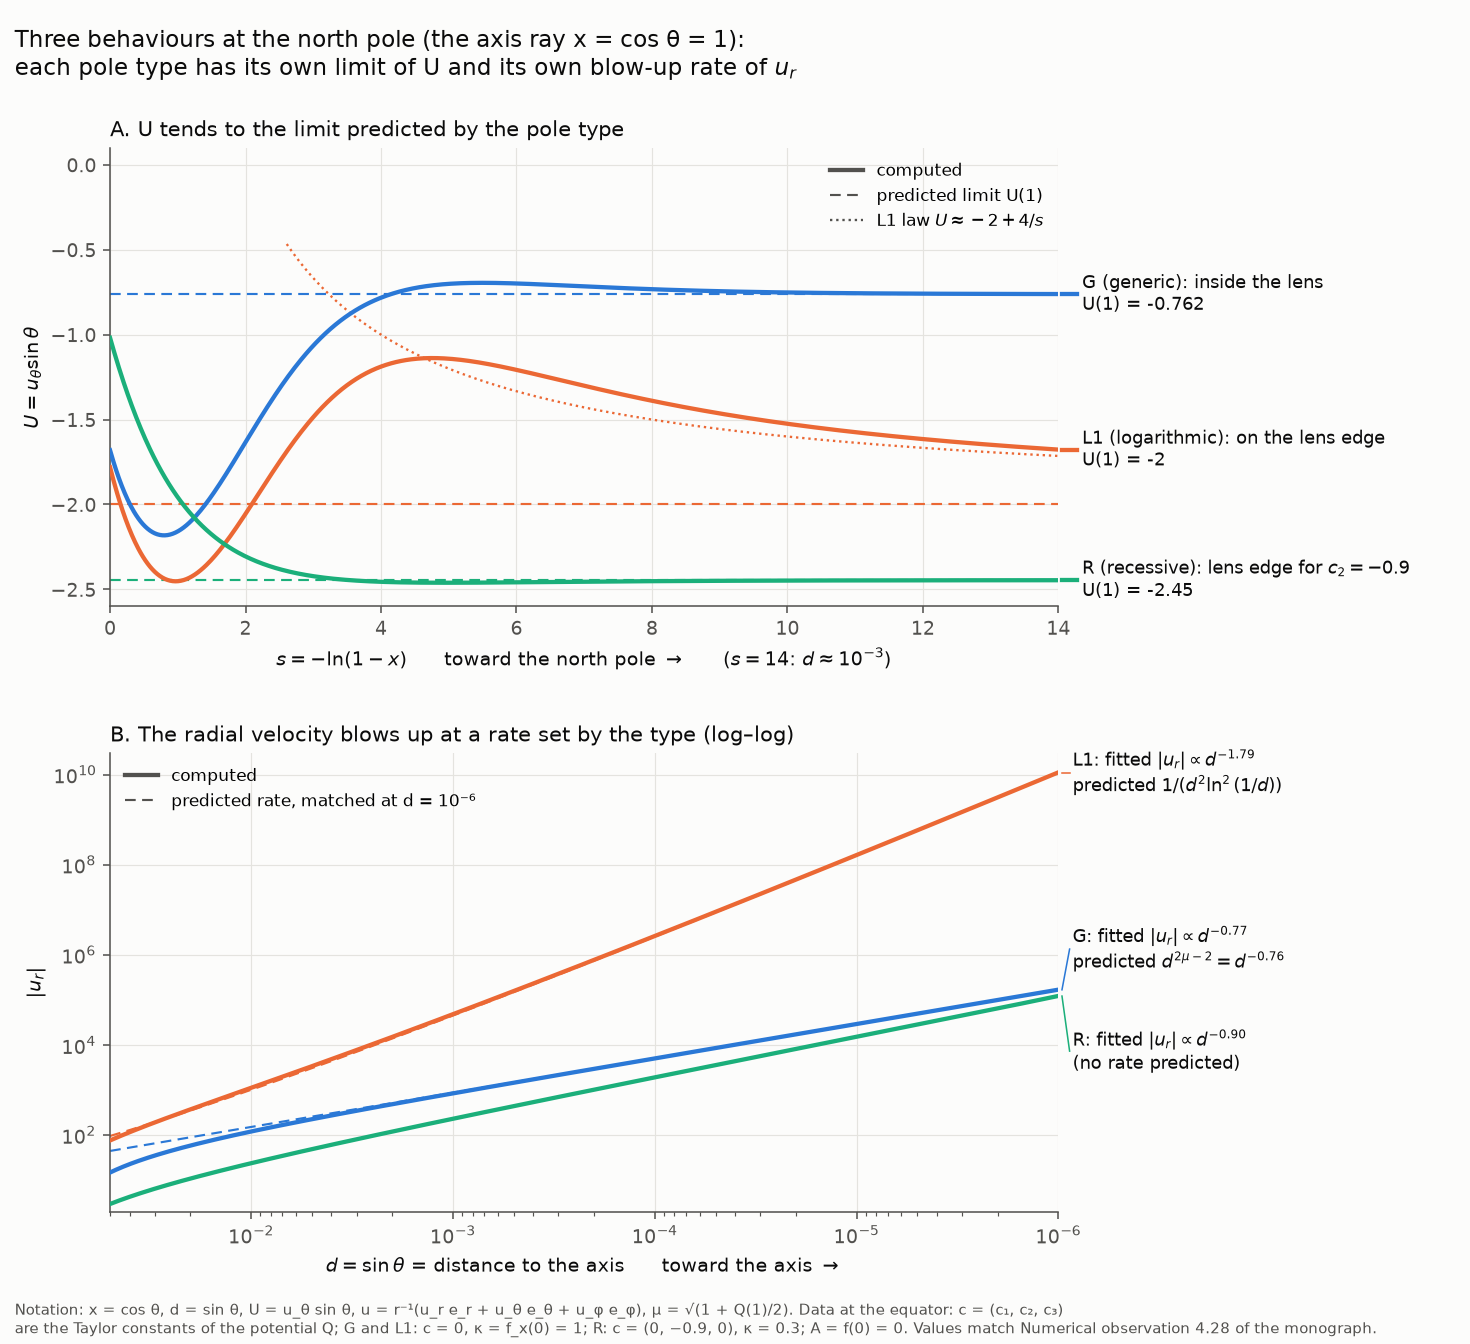
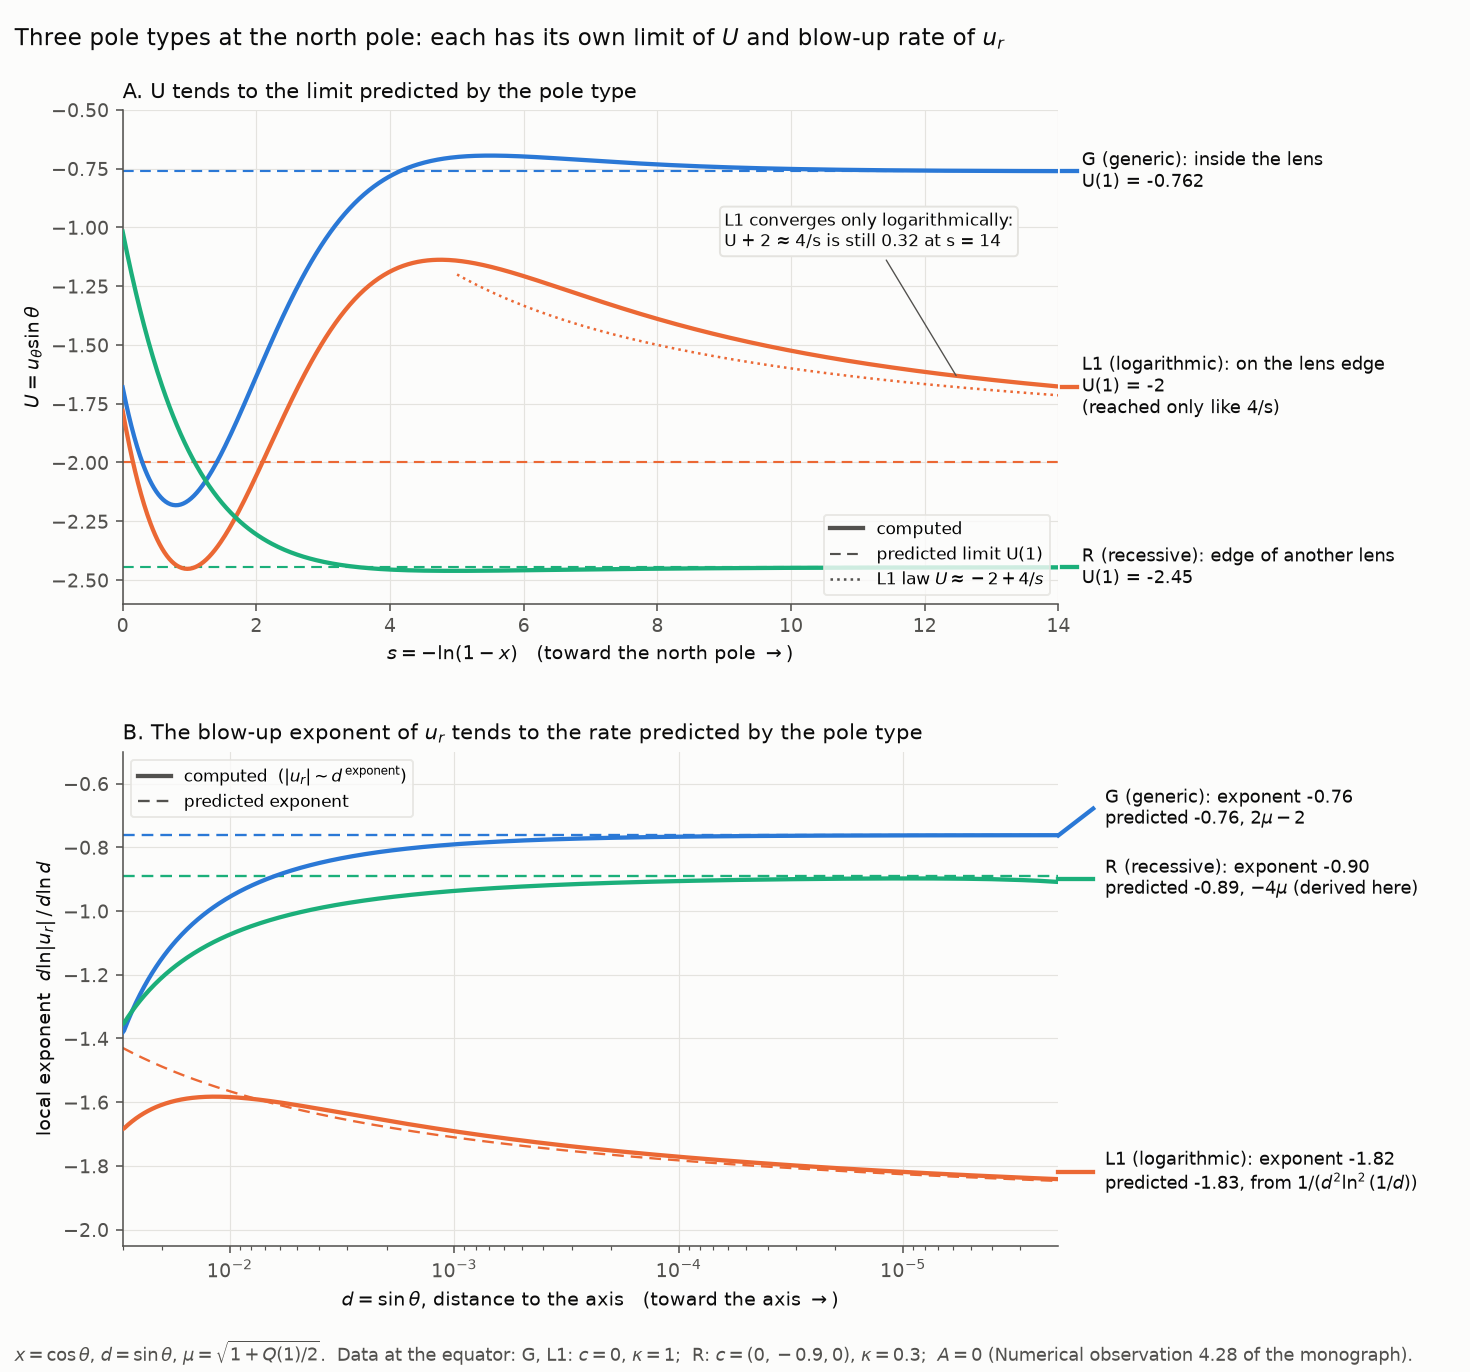
Milestone-1 figures after 6 review rounds; local-exponent panel; mock-up refresh

diff --git a/scripts/make_m1_figures.py b/scripts/make_m1_figures.py
@@ -48,13 +48,13 @@ def _runs():
     return [
         ("G", "G (generic): inside the lens", Params(gamma=gm0 + 0.1, kappa=1.0), S1),
         ("L1", "L1 (logarithmic): on the lens edge", Params(gamma=gm0 + 1e-11, kappa=1.0), S2),
-        ("R", r"R (recessive): lens edge for $c_2=-0.9$", Params(c2=-0.9, gamma=gm9 + 1e-11, kappa=0.3), S3),
+        ("R", "R (recessive): edge of another lens", Params(c2=-0.9, gamma=gm9 + 1e-11, kappa=0.3), S3),
     ]
 
 
 def fig_pole_types() -> str:
     runs = _runs()
-    fig, (ax, bx) = plt.subplots(2, 1, figsize=(10.5, 9.6))
+    fig, (ax, bx) = plt.subplots(2, 1, figsize=(10.5, 9.8))
     # ---------------------------------------------------------------- panel A
     for strat, name, p, col in runs:
         sol = solve(p)
@@ -64,22 +64,29 @@ def fig_pole_types() -> str:
         ax.plot(pr["s_north"], pr["U"], color=col, lw=2.2, zorder=3)
         ax.axhline(d.U_lim, color=col, lw=1.1, ls=(0, (5, 3)), zorder=2)
         if strat == "L1":
-            s = pr["s_north"][pr["s_north"] > 2.6]
-            ax.plot(s, -2 + 4 / s, color=col, lw=1.2, ls=":")
+            s = pr["s_north"][pr["s_north"] > 5.0]
+            ax.plot(s, -2 + 4 / s, color=col, lw=1.3, ls=":")
+            ax.annotate("L1 converges only logarithmically:\nU + 2 ≈ 4/s is still 0.32 at s = 14",
+                        xy=(12.5, -1.645), xytext=(9.0, -1.08), fontsize=8.8, color=INK,
+                        bbox=dict(boxstyle="round,pad=0.25", fc=SURF, ec=GRID),
+                        arrowprops=dict(arrowstyle="-", color=INK2, lw=0.7))
         y = pr["U"][-1]
-        ax.text(14.35, y, f"{name}\nU(1) = {d.U_lim:.3g}", fontsize=9, va="center", color=INK)
+        extra = "\n(reached only like 4/s)" if strat == "L1" else ""
+        ax.text(14.35, y, f"{name}\nU(1) = {d.U_lim:.3g}{extra}", fontsize=9, va="center", color=INK)
         ax.plot([14.05, 14.28], [y, y], color=col, lw=2.2, clip_on=False)
     ax.set_xlim(0, 14)
-    ax.set_ylim(-2.6, 0.1)
-    ax.set_xlabel(r"$s = -\ln(1-x)$      toward the north pole $\rightarrow$      ($s = 14$: $d \approx 10^{-3}$)")
+    ax.set_ylim(-2.6, -0.5)
+    ax.set_xlabel(r"$s = -\ln(1-x)$   (toward the north pole $\rightarrow$)")
     ax.set_ylabel(r"$U = u_\theta \sin\theta$")
     ax.set_title("A. U tends to the limit predicted by the pole type", loc="left", fontsize=11, color=INK)
     style = [Line2D([], [], color=INK2, lw=2.2, label="computed"),
              Line2D([], [], color=INK2, lw=1.1, ls=(0, (5, 3)), label="predicted limit U(1)"),
-             Line2D([], [], color=INK2, lw=1.2, ls=":", label=r"L1 law $U \approx -2 + 4/s$")]
-    ax.legend(handles=style, loc="upper right", fontsize=8.5)
-    # ---------------------------------------------------------------- panel B
-    xi2 = np.linspace(np.log(2 / 0.05), 14.5, 500)        # d from 0.05 to 1e-6 (edge runs drift later)
+             Line2D([], [], color=INK2, lw=1.3, ls=":", label=r"L1 law $U \approx -2 + 4/s$")]
+    ax.legend(handles=style, loc="lower right", fontsize=8.5, frameon=True, facecolor=SURF, edgecolor=GRID)
+    # ---------------------------------------------------------------- panel B: local exponent
+    xi2 = np.linspace(np.log(2 / 0.03), 13.8, 700)        # d from 0.05 to 1e-6 (edge runs drift later)
+    d_end = 1.0 / np.cosh(13.8)                              # = sin(theta) at the last sample
+    label_y = {"G": None, "L1": None, "R": None}
     for strat, name, p, col in runs:
         sol = solve(p)
         dfull = diagnose_pole(sol, "north")
@@ -87,111 +94,161 @@ def fig_pole_types() -> str:
         good = np.abs(p2["U_x"] * p2["sin"] ** 2) > 1e-9      # drop rounding noise
         d = p2["sin"][good]
         ur = np.abs(p2["u_r"][good])
-        fit, _ = fit_exponent(d[d < 1e-3], ur[d < 1e-3])
+        slope = np.gradient(np.log(ur), np.log(d))            # local exponent of |u_r| ~ d^slope
         if strat == "G":
-            ref = d ** (2 * dfull.mu - 2)
-            lab = (rf"G: fitted $|u_r| \propto d^{{{fit:.2f}}}$" + "\n"
-                   + rf"predicted $d^{{2\mu-2}} = d^{{{2 * dfull.mu - 2:.2f}}}$")
+            pred = np.full_like(d, 2 * dfull.mu - 2)
+            how = r"$2\mu-2$"
         elif strat == "L1":
-            ref = 1 / (d ** 2 * np.log(1 / d) ** 2)
-            lab = (rf"L1: fitted $|u_r| \propto d^{{{fit:.2f}}}$" + "\n"
-                   + r"predicted $1/(d^2 \ln^2(1/d))$")
+            pred = -2 + 2 / np.log(1 / d)                      # local exponent of 1/(d^2 ln^2(1/d))
+            how = r"from $1/(d^2\ln^2(1/d))$"
         else:
-            ref = None
-            lab = rf"R: fitted $|u_r| \propto d^{{{fit:.2f}}}$" + "\n(no rate predicted)"
-        if ref is not None:
-            bx.loglog(d, ref * ur[-1] / ref[-1], color=col, lw=1.1, ls=(0, (5, 3)), zorder=2)
-        bx.loglog(d, ur, color=col, lw=2.2, zorder=3)
-        yl = ur[-1] * (0.06 if strat == "R" else (8.0 if strat == "G" else 1.0))
-        bx.text(8.5e-7, yl, lab, fontsize=9, va="center", ha="left", color=INK)
-        bx.plot([9.6e-7, 8.8e-7], [ur[-1], yl], color=col, lw=0.8, clip_on=False)
-    bx.set_xlim(0.05, 1e-6)                                  # pole on the right, as in panel A
-    bx.set_ylim(2, 3e10)
-    bx.set_xlabel(r"$d = \sin\theta$ = distance to the axis      toward the axis $\rightarrow$")
-    bx.set_ylabel(r"$|u_r|$")
-    bx.set_title("B. The radial velocity blows up at a rate set by the type (log–log)", loc="left",
-                 fontsize=11, color=INK)
-    style2 = [Line2D([], [], color=INK2, lw=2.2, label="computed"),
-              Line2D([], [], color=INK2, lw=1.1, ls=(0, (5, 3)), label="predicted rate, matched at d = 10⁻⁶")]
-    bx.legend(handles=style2, loc="upper left", fontsize=8.5)
-    fig.suptitle("Three behaviours at the north pole (the axis ray x = cos θ = 1):\n"
-                 "each pole type has its own limit of U and its own blow-up rate of $u_r$",
+            pred = np.full_like(d, -4 * dfull.mu)
+            how = r"$-4\mu$ (derived here)"
+        bx.semilogx(d, pred, color=col, lw=1.2, ls=(0, (5, 3)), zorder=2)
+        bx.semilogx(d, slope, color=col, lw=2.2, zorder=3)
+        plateau = (d > 3e-6) & (d < 3e-5)
+        y = float(np.median(slope[plateau]))
+        label_y[strat] = (y, f"{name.split(':')[0]}: exponent {y:.2f}\npredicted {np.median(pred[plateau]):.2f}, {how}", col)
+    # right-end labels, nudged apart vertically if they collide
+    items = sorted(label_y.values(), key=lambda t: t[0])
+    ys = [t[0] for t in items]
+    for i in range(1, len(ys)):
+        ys[i] = max(ys[i], ys[i - 1] + 0.22)
+    for (y0, txt, col), yt in zip(items, ys):
+        bx.text(d_end * 0.62, yt, txt, fontsize=9, va="center", ha="left", color=INK)
+        bx.plot([d_end, d_end * 0.7], [y0, yt], color=col, lw=2.2, clip_on=False)
+    bx.set_xlim(0.03, d_end)                                 # pole on the right, as in panel A
+    bx.set_ylim(-2.05, -0.5)
+    bx.set_xlabel(r"$d = \sin\theta$, distance to the axis   (toward the axis $\rightarrow$)")
+    bx.set_ylabel(r"local exponent $\;d\ln|u_r|\,/\,d\ln d$")
+    bx.set_title(r"B. The blow-up exponent of $u_r$ tends to the rate predicted by the pole type",
+                 loc="left", fontsize=11, color=INK)
+    style2 = [Line2D([], [], color=INK2, lw=2.2, label=r"computed  ($|u_r| \sim d^{\,\mathrm{exponent}}$)"),
+              Line2D([], [], color=INK2, lw=1.2, ls=(0, (5, 3)), label="predicted exponent")]
+    bx.legend(handles=style2, loc="upper left", fontsize=8.5, frameon=True, facecolor=SURF, edgecolor=GRID)
+    fig.suptitle("Three pole types at the north pole: each has its own limit of $U$ and blow-up rate of $u_r$",
                  x=0.01, ha="left", fontsize=12, color=INK)
     fig.text(0.01, 0.008,
-             "Notation: x = cos θ, d = sin θ, U = u_θ sin θ, u = r⁻¹(u_r e_r + u_θ e_θ + u_φ e_φ), μ = √(1 + Q(1)/2). "
-             "Data at the equator: c = (c₁, c₂, c₃)\nare the Taylor constants of the potential Q; "
-             "G and L1: c = 0, κ = f_x(0) = 1; R: c = (0, −0.9, 0), κ = 0.3; A = f(0) = 0. "
-             "Values match Numerical observation 4.28 of the monograph.", fontsize=7.8, color=INK2)
-    fig.tight_layout(rect=(0, 0.035, 1, 0.95))
-    fig.subplots_adjust(hspace=0.32, right=0.72, top=0.89)
+             r"$x=\cos\theta$, $d=\sin\theta$, $\mu=\sqrt{1+Q(1)/2}$.  Data at the equator: "
+             r"G, L1: $c=0$, $\kappa=1$;  R: $c=(0,-0.9,0)$, $\kappa=0.3$;  $A=0$ "
+             "(Numerical observation 4.28 of the monograph).", fontsize=9, color=INK2)
+    fig.tight_layout(rect=(0, 0.03, 1, 0.96))
+    fig.subplots_adjust(hspace=0.3, right=0.72, top=0.92)
     path = os.path.join(OUT, "fig_pole_types.png")
     fig.savefig(path, dpi=140)
     plt.close(fig)
     return path
 
 
-def fig_lens_map() -> str:
-    spec = SigmaMapSpec(Params(), "gamma", "kappa", (-2.5, 2.5), (0.0, 4.6), nx=251, ny=185)
-    res = compute_sigma_map(spec, workers=os.cpu_count() or 4)
-    xs, ys = spec.axes()
-    G = res.is_global
-    mu = np.where(G, res.mu_n, np.nan)
-    ks = np.concatenate([np.linspace(0.005, 4.0, 50), np.linspace(4.0, 4.1607, 12)])
-    gm = np.array([gamma_minus(Params(kappa=k), tol=1e-8) for k in ks])
-    gp = -gm                                   # mirror symmetry at x0 = 0, c = 0
-    fig, ax = plt.subplots(figsize=(10.5, 6.6))
-    ax.grid(False)
-    ax.pcolormesh(xs, ys, np.where(G, np.nan, 1.0), cmap=ListedColormap(["#e6e5e1"]),
-                  shading="nearest", rasterized=True)
+def _nearest_fill(a: np.ndarray) -> np.ndarray:
+    from scipy.ndimage import distance_transform_edt
+    idx = distance_transform_edt(np.isnan(a), return_distances=False, return_indices=True)
+    return a[tuple(idx)]
+
+
+def _shade_lens(ax, xs, ys, mu, gm, ks, cols, smooth=1.0, kmin=0.0):
+    """Shade classes, draw smooth class boundaries clipped to the bisected lens."""
+    from scipy.ndimage import gaussian_filter
+    from matplotlib.patches import Polygon
     bounds = [0, 0.5, 2 / 3, 1.0]
-    cols = ["#163f73", "#2a78d6", "#a9cbf2"]             # one hue: darker = more singular (smaller μ₊)
     cmap = ListedColormap(cols)
+    ax.pcolormesh(xs, ys, np.where(np.isnan(mu), 1.0, np.nan), cmap=ListedColormap(["#e6e5e1"]),
+                  shading="nearest", rasterized=True)
     ax.pcolormesh(xs, ys, mu, cmap=cmap, norm=BoundaryNorm(bounds, cmap.N), shading="nearest",
                   rasterized=True)
-    cs = ax.contour(xs, ys, mu, levels=[0.5, 2 / 3], colors=["white"], linewidths=1.0)
+    sm = gaussian_filter(_nearest_fill(mu), smooth)
+    sm[ys < kmin, :] = np.nan                      # coarse grid cannot resolve the thin corner
+    cs = ax.contour(xs, ys, sm, levels=[0.5, 2 / 3], colors=["white"], linewidths=2.4)
+    poly = Polygon(np.column_stack([np.concatenate([gm, -gm[::-1]]), np.concatenate([ks, ks[::-1]])]),
+                   closed=True, transform=ax.transData, fill=False, lw=0)
+    ax.add_patch(poly)
+    cs.set_clip_path(poly)
+    ax.plot(np.concatenate([gm, -gm[::-1]]), np.concatenate([ks, ks[::-1]]), color=INK, lw=2.0)
+    return cs
 
-    def on_contour(level_idx: int, kappa: float):
-        seg = max(cs.allsegs[level_idx], key=len)
-        j = int(np.argmin(np.abs(seg[:, 1] - kappa)))
-        return float(seg[j, 0]), float(seg[j, 1])
 
-    labels = ax.clabel(cs, fmt={0.5: "μ₊ = ½", 2 / 3: "μ₊ = ⅔"}, fontsize=9.5, inline=True,
-                       manual=[on_contour(0, 2.2), on_contour(1, 2.2)])
-    for t in labels:
-        t.set_color(INK)
-        t.set_bbox(dict(boxstyle="round,pad=0.15", fc=SURF, ec="none"))
-    ax.plot(np.concatenate([gm, gp[::-1]]), np.concatenate([ks, ks[::-1]]), color=INK, lw=1.6)
+def _inline_label(ax, cs, level_idx, kappa, text):
+    seg = max(cs.allsegs[level_idx], key=len)
+    j = int(np.argmin(np.abs(seg[:, 1] - kappa)))
+    a, b = seg[max(j - 3, 0)], seg[min(j + 3, len(seg) - 1)]
+    pa, pb = ax.transData.transform(a), ax.transData.transform(b)
+    ang = np.degrees(np.arctan2(pb[1] - pa[1], pb[0] - pa[0]))
+    if ang > 90:
+        ang -= 180
+    if ang < -90:
+        ang += 180
+    ax.text(seg[j, 0], seg[j, 1], text, rotation=ang, rotation_mode="anchor", ha="center", va="center",
+            fontsize=10, color=INK, bbox=dict(boxstyle="round,pad=0.2", fc=SURF, ec="none"), zorder=6)
+
+
+def fig_lens_map() -> str:
+    spec = SigmaMapSpec(Params(), "gamma", "kappa", (-2.2, 2.2), (0.0, 4.4), nx=241, ny=200)
+    res = compute_sigma_map(spec, workers=os.cpu_count() or 4)
+    xs, ys = spec.axes()
+    ks = np.concatenate([np.linspace(0.002, 0.2, 15), np.linspace(0.2, 4.0, 45), np.linspace(4.0, 4.1607, 12)])
+    gm = np.array([gamma_minus(Params(kappa=k), tol=1e-9) for k in ks])
+
+    def masked_mu(res, xs, ys):
+        Xg, Yg = np.meshgrid(xs, ys)
+        lo = np.interp(Yg, ks, gm, right=np.inf)
+        inside = (Yg <= ks[-1]) & (Xg >= lo) & (Xg <= -lo)
+        return np.where(res.is_global & inside, res.mu_n, np.nan)
+
+    mu = masked_mu(res, xs, ys)
+    cols = ["#163f73", "#2a78d6", "#a9cbf2"]             # one hue: darker = more singular (smaller μ₊)
+    fig, ax = plt.subplots(figsize=(10.5, 6.8))
+    ax.grid(False)
+    cs = _shade_lens(ax, xs, ys, mu, gm, ks, cols, kmin=0.45)
+    fig.canvas.draw()
+    _inline_label(ax, cs, 0, 3.0, r"$\mu_+ = 1/2$")
+    _inline_label(ax, cs, 1, 2.45, r"$\mu_+ = 2/3$")
     ax.plot([0], [4.1608149], marker="o", ms=7, color=INK)
-    ax.text(-0.12, 4.32, r"apex $\kappa_{\max} \approx 4.16$", fontsize=10, color=INK, ha="right",
+    ax.text(-0.1, 4.2, r"apex $\kappa_{\max} \approx 4.16$", fontsize=10, color=INK, ha="right",
             path_effects=HALO)
-    ax.plot([-2, 2], [0, 0], color=VIOLET, lw=5, solid_capstyle="butt", clip_on=False, zorder=5)
-    ax.text(0, 0.1, r"Landau window $-2 \leq \gamma \leq 2$ (no swirl, $\kappa \to 0$)", ha="center",
+    ax.plot([-2, 2], [0, 0], color=INK2, lw=5, solid_capstyle="butt", clip_on=False, zorder=5)
+    ax.text(0, 0.2, r"Landau window $-2 \leq \gamma \leq 2$ (no swirl, $\kappa \to 0$)", ha="center",
             fontsize=9, color=INK, bbox=dict(boxstyle="round,pad=0.2", fc=SURF, ec="none"))
     ann = dict(fontsize=9.3, color=INK, bbox=dict(boxstyle="round,pad=0.25", fc=SURF, ec=GRID),
                arrowprops=dict(arrowstyle="-", color=INK, lw=0.8))
-    ax.annotate("lower edge γ₋(κ):\nnorth pole is L1", xy=(-1.62, 1.3), xytext=(-2.45, 2.2), **ann)
-    ax.annotate("upper edge γ₊(κ): decided\nby the south pole", xy=(1.66, 1.2), xytext=(1.55, 2.05), **ann)
-    ax.set_xlim(-2.5, 2.5)
-    ax.set_ylim(0, 4.6)
-    ax.set_xlabel("γ = U(0)   (meridional circulation at the equator)")
-    ax.set_ylabel("κ = f_x(0)   (swirl rate at the equator)")
-    ax.set_title("Global solutions form a lens (slice c = 0, A = 0), shaded by the north-pole regularity class",
+    ax.annotate("lower edge $\\gamma_-(\\kappa)$:\nnorth pole is L1", xy=(float(np.interp(2.6, ks, gm)), 2.6), xytext=(-2.15, 3.3), **ann)
+    ax.annotate("upper edge $\\gamma_+(\\kappa)$:\ndecided by the south pole", xy=(float(-np.interp(0.9, ks, gm)), 0.9),
+                xytext=(0.75, 1.45), **ann)
+    ax.set_xlim(-2.2, 2.2)
+    ax.set_ylim(0, 4.4)
+    ax.set_xlabel(r"$\gamma = U(0)$   (meridional circulation at the equator)")
+    ax.set_ylabel(r"$\kappa = f_x(0)$   (swirl rate at the equator)")
+    ax.set_title(r"Global solutions form a lens (slice $c = 0$, $A = 0$), shaded by how singular the north pole is",
                  loc="left", fontsize=11.5, color=INK)
-    handles = [Patch(color=cols[2], label=r"Type II.5: $2/3 < \mu_+ < 1$"),
-               Patch(color=cols[1], label=r"Type III: $1/2 \leq \mu_+ \leq 2/3$"),
-               Patch(color=cols[0], label=r"beyond III: $\mu_+ < 1/2$"),
-               Patch(color="#e6e5e1", label="not global (z → 0 at some angle)")]
+    handles = [Patch(color=cols[2], label=r"Type II.5:  $2/3 < \mu_+ < 1$"),
+               Patch(color=cols[1], label=r"Type III:  $1/2 \leq \mu_+ \leq 2/3$"),
+               Patch(color=cols[0], label=r"beyond III:  $\mu_+ < 1/2$  ($|u_r| \gg 1/d$)"),
+               Patch(color="#e6e5e1", label="not global")]
     ax.legend(handles=handles, loc="upper right", fontsize=9, frameon=True, facecolor=SURF, edgecolor=GRID,
-              title="north pole: all lens points are type G;\nclass set by " + r"$\mu_+ = \sqrt{1+Q(1)/2}$",
-              title_fontsize=8.8)
-    fig.text(0.01, 0.01, f"Data at the equator x = 0. Darker = more singular at the north pole. "
-             f"Grid {spec.nx}×{spec.ny}; edges by bisection. No point of this slice has μ₊ ≥ 1.",
-             fontsize=8, color=INK2)
+              title="North-pole class by the exponent " + r"$\mu_+ = \sqrt{1+Q(1)/2}$" + "\n(darker = more singular; none has "
+              + r"$\mu_+ \geq 1$)", title_fontsize=9)
+    # ---- inset: the thin lower-left part of the lens, recomputed on a fine grid
+    spec2 = SigmaMapSpec(Params(), "gamma", "kappa", (-2.02, -1.55), (0.0, 1.2), nx=160, ny=160)
+    res2 = compute_sigma_map(spec2, workers=os.cpu_count() or 4)
+    xs2, ys2 = spec2.axes()
+    _shade_lens(ax, xs2, ys2, masked_mu(res2, xs2, ys2), gm, ks, cols, smooth=1.5)
+    ins = ax.inset_axes([0.83, 0.53, 0.155, 0.21])
+    ins.grid(False)
+    _shade_lens(ins, xs2, ys2, masked_mu(res2, xs2, ys2), gm, ks, cols, smooth=1.5)
+    ins.set_xlim(-2.02, -1.55)
+    ins.set_ylim(0, 1.2)
+    ins.tick_params(labelsize=8)
+    ins.set_title("zoom of the dashed box", fontsize=8.5, color=INK, loc="left", pad=3)
+    from matplotlib.patches import Rectangle
+    ax.add_patch(Rectangle((-2.02, 0.0), 0.47, 1.2, fill=False, ec=INK, lw=1.0, ls="--", zorder=7))
+    ax.text(-1.53, 1.22, "zoomed at right", fontsize=8.5, color=INK, va="bottom", path_effects=HALO)
+    fig.text(0.01, 0.01, f"Data at the equator x = 0. Grid {spec.nx}×{spec.ny} (inset {spec2.nx}×{spec2.ny}); "
+             "lens edges by bisection.", fontsize=8.5, color=INK2)
     fig.tight_layout(rect=(0, 0.03, 1, 1))
     path = os.path.join(OUT, "fig_lens_map.png")
     fig.savefig(path, dpi=140)
     plt.close(fig)
     return path
+
 
 
 if __name__ == "__main__":
